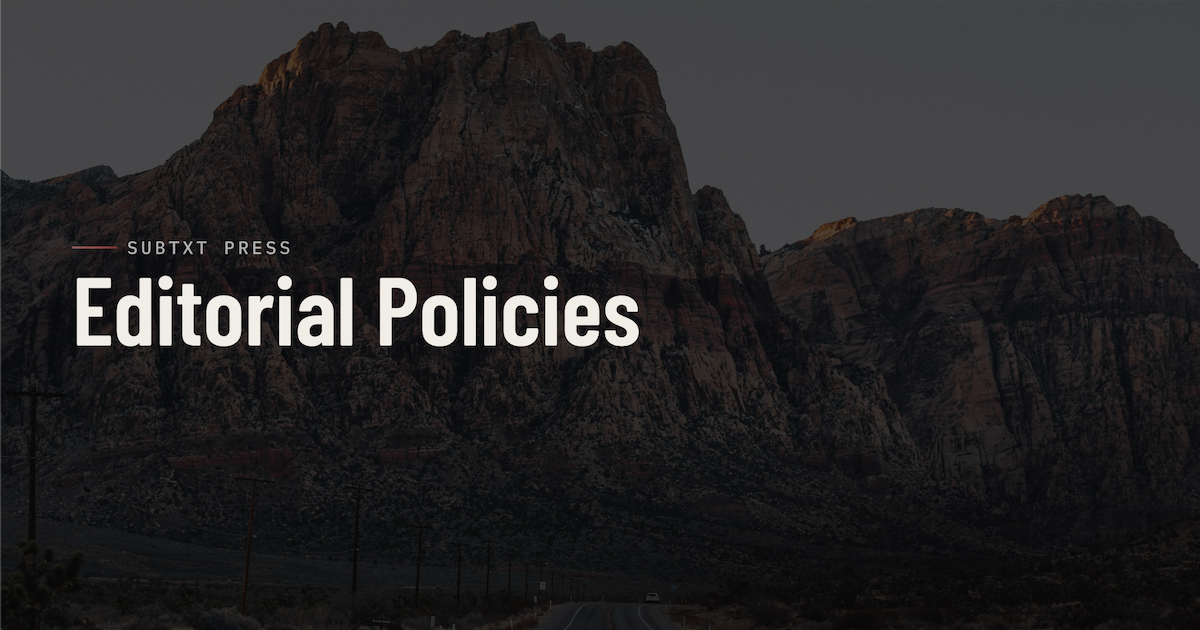
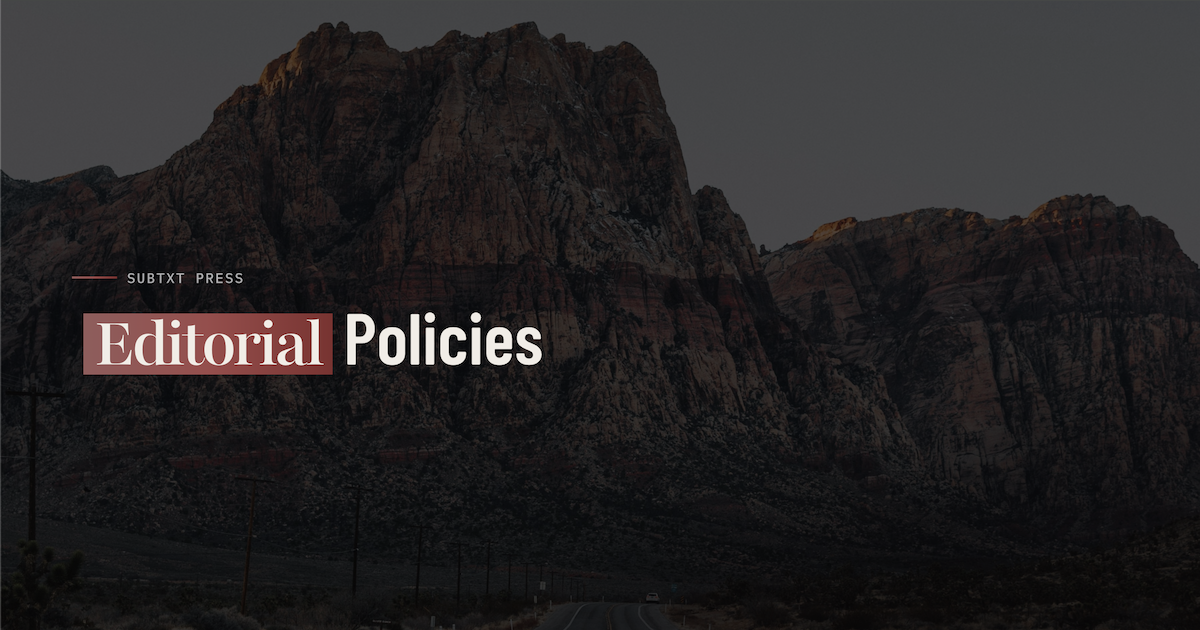
preview imgs

Changed region(s): [[0.0617, 0.3619, 0.555, 0.6032]]

diff --git a/index.html b/index.html
@@ -12,7 +12,7 @@
   <meta property="og:description" content="Irreverent, adversarial reporting on corruption, due process and institutional failures.">
   <meta property="og:type" content="website">
   <meta property="og:url" content="https://subtxtpress.github.io/home/">
-  <meta property="og:image" content="https://subtxtpress.github.io/home/assets/img/irreverant-journalism.png">
+  <meta property="og:image" content="https://subtxtpress.github.io/home/assets/img/home.png">
   <meta property="og:image:width" content="1200">
   <meta property="og:image:height" content="630">
   <meta property="og:site_name" content="Home | Subtxt Press">
@@ -20,7 +20,7 @@
   <meta name="twitter:card" content="summary_large_image">
   <meta name="twitter:title" content="Home | Subtxt Press">
   <meta name="twitter:description" content="Irreverent, adversarial reporting on corruption, due process and institutional failures.">
-  <meta name="twitter:image" content="https://subtxtpress.github.io/home/assets/img/irreverant-journalism.png">
+  <meta name="twitter:image" content="https://subtxtpress.github.io/home/assets/img/home.png">
   <meta name="twitter:creator" content="@subtxtpress">
   <!-- Favicons -->
   <link rel="apple-touch-icon" sizes="180x180" href="icons/icon-180.png">

diff --git a/assets/img/preview-template.html b/assets/img/preview-template.html
@@ -151,13 +151,12 @@
     background: linear-gradient(to left, rgb(129, 46, 46), rgb(159, 74, 74), rgb(150, 91, 91));
     font-family: "Playfair", serif;
     font-weight: 600;
-    font-size: 4.4rem;
+    font-size: 4.6rem;
     line-height: 0.85;
     letter-spacing: -0.05em;
     font-style: none;
     padding: 0 1%;
     margin: 0 1%;
-    font-style: italic;
   }
 </style>
 </head>
@@ -170,9 +169,9 @@
     <div class="main">
       <div class="cover-eyebrow">
         <div class="eyebrow-rule"></div>
-        <div class="eyebrow-label">Pima County Superior Court</div>
+        <div class="eyebrow-label">Home</div>
       </div>
-      <div class="cover-head">Tucson<span class="sub-head">Streamers</span>Dockets</div>
+      <div class="cover-head"><span class="sub-head">Subtxt</span>Press</div>
     </div>
 
 </body>

diff --git a/case/maps.html b/case/maps.html
@@ -14,7 +14,7 @@
   <meta property="og:image" content="https://subtxtpress.github.io/home/assets/img/case-maps-timelines.png">
   <meta property="og:image:width" content="1200">
   <meta property="og:image:height" content="630">
-  <meta property="og:site_name" content="Subtxt Press">
+  <meta property="og:site_name" content="Case Maps | Subtxt Press">
   <!-- Twitter -->
   <meta name="twitter:card" content="summary_large_image">
   <meta name="twitter:title" content="Case Maps | Subtxt Presss">
